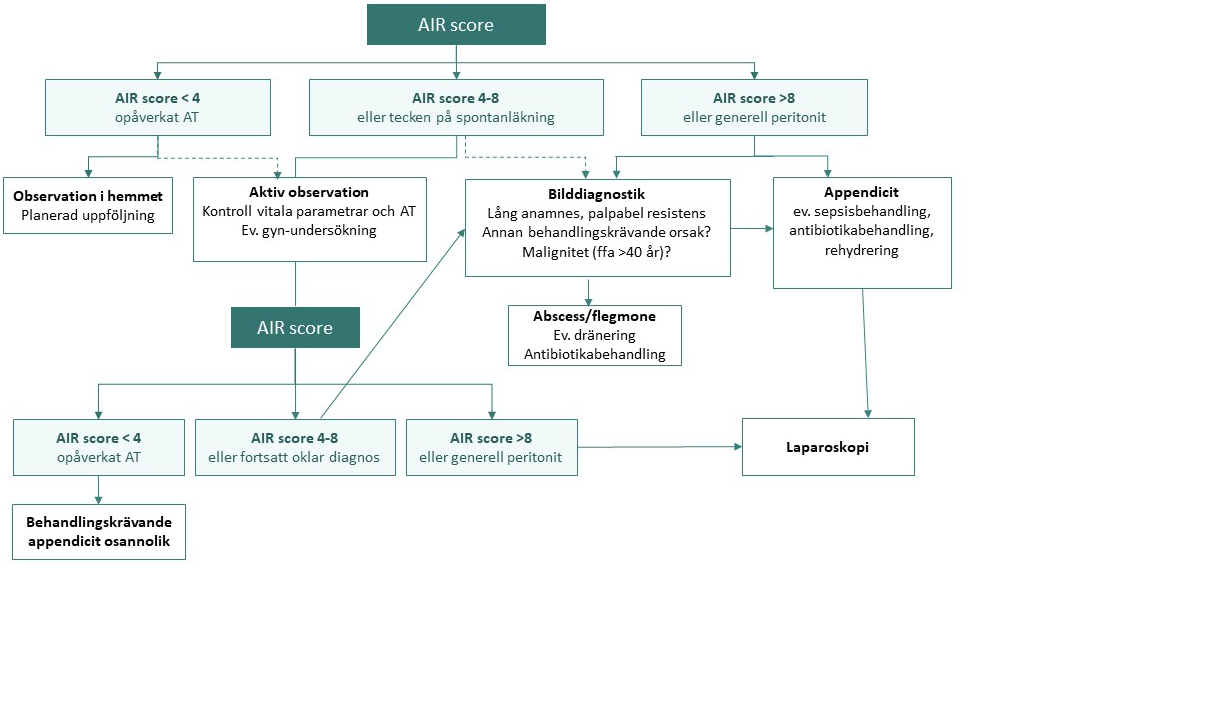
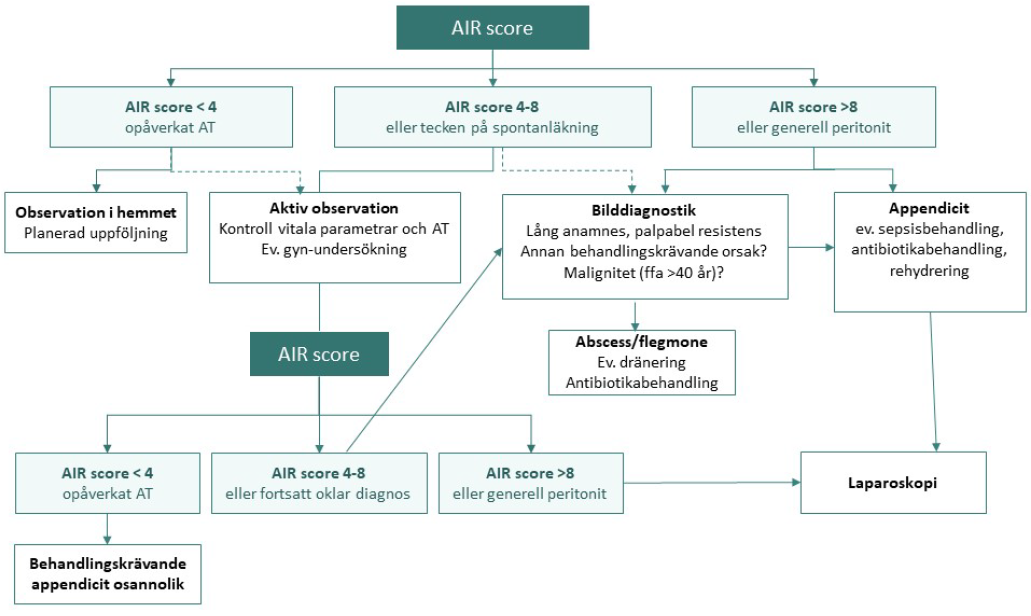
asd

Changed region(s): [[0.0, 0.0, 1.0, 0.987], [0.7759, 0.7094, 0.9311, 0.7403], [0.807, 0.7711, 0.9311, 0.8019]]

diff --git a/docs/src/kirurgi/appendicit.md b/docs/src/kirurgi/appendicit.md
@@ -81,21 +81,33 @@ _Artikel av Roland Andersson et al, "Meta-analysis of the clinical and laborator
 
 ### <ye> Scoringsystem </ye>
 
-::: info I sverige används huvudsakligen Appendicits Inflammation Response (AIR) score som är ett validerat poängbaserat verktyg och kan användas som beslutsfattande underlag. Jämfört med Alvarado score inkluderar denna CRP och har i studier visat sig ha högre träffsäkerhet.
+::: info I sverige används huvudsakligen Appendicits Inflammation Response (AIR) score som är ett validerat poängbaserat verktyg och kan användas som beslutsfattande underlag. Den är särskilt bra för att identifiera komplicerad appendicit. Jämfört med Alvarado score inkluderar denna CRP och har i studier visat sig ha högre träffsäkerhet.
 :::
 
-![(tabell-air)](tabell-air.png)
+![tabell-air](tabell-air.png)
 
-|  Undersökning     | Sensitivitet (%)              | Specificitet               | LR +             | LR -                  |
-| -------------     | :-----------:             | :--------------------:    | :--------------------:     |    :--------------------:     |
-| AIR < 4p          | 99                        | b (False Positive)        |                             |                             |
-| AIR < 4-8 p       | c (False Negative)        | d (True Negative)         |                              |                               |
-| AIR > 8p          | c (False Negative)        | d (True Negative)         |                              |                               |
+|  Undersökning      | Sensitivitet (%)          | NPV (%)                       | Specificitet (%)                 | PPV (%)                   |
+| -------------      | :-----------:             | :--------------------:    | :--------------------:         |    :--------------------:       |
+| AIR < 4p           | 96                        | 94                        |      -                         |       -                         |
+| AIR < 4-8 p        | -                         | -                         |     -                          |        -                        |
+| AIR > 8p           | -                         | -                         |     98                         |        86                       |
+| AIR > 8p + < 15år  | -                         | -                         |     99                         |        96                       |
+| AIR > 8p + > 39år  | -                         | -                         |     99                         |        83                       |
+| AIR > 8p + kvinna  | -                         | -                         |     99                         |        84                       |
 
+Kommentar: 
 
 ### <ye> Bilddiagnostik </ye>
 
 |  Undersökning         | Sensitivitet              | Specificitet               | LR +  | LR - |
 | -------------         | :-----------:             | :--------------------:    | :--------------------:     |    :--------------------:     |
-| AIR < 4p          | a (True Positiv)          | b (False Positive)        |                             |                             |
+| AIR < 4p              | a (True Positiv)          | b (False Positive)        |                             |                             |
 | Test negativ          | c (False Negative)        | d (True Negative)         |                              |                               |
+
+### <ye> Diagnostiskt och beslutsfattande flödesschema </ye>
+
+![algortim-app](algoritm-app.png)
+
+::: details Källa 
+_Nationellt vårdprogram för akut appendicit, 2024._
+:::
